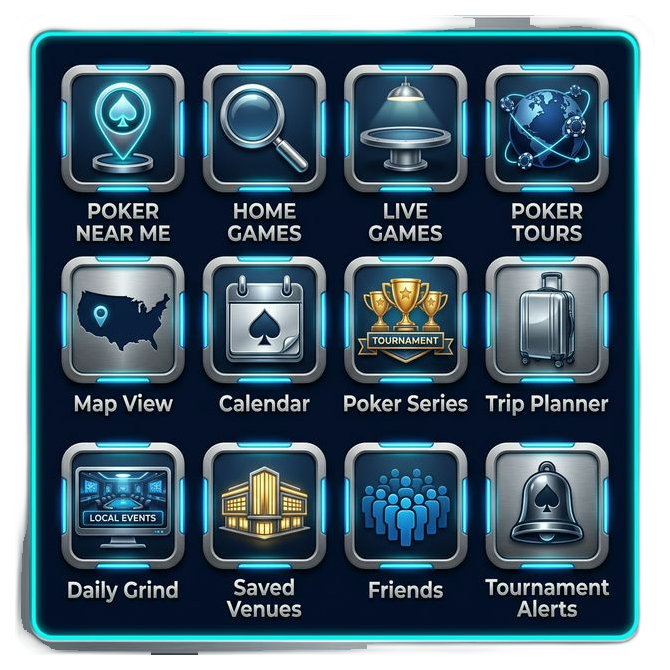
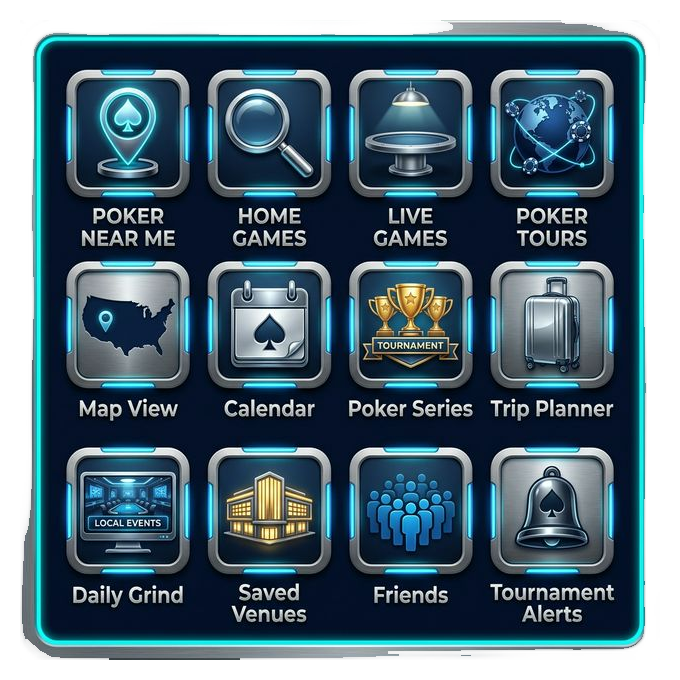
fix: Poker Near Me — cleaner neon frame edges (rembg v2), full-screen panels

diff --git a/pages/hub/poker-near-me-lobby.js b/pages/hub/poker-near-me-lobby.js
@@ -1253,39 +1253,40 @@ export default function PokerNearMeLobby() {
         {/* Layer 3 — Feature Panel (page level to escape overlay z-index stacking context) */}
         {showPanel && panelContent && (
           <>
-            {/* Backdrop */}
-            <div
-              onClick={handlePanelClose}
-              style={{
-                position: 'fixed', inset: 0, zIndex: 50,
-                background: 'rgba(3, 4, 8, 0.6)',
-                backdropFilter: 'blur(6px)', WebkitBackdropFilter: 'blur(6px)',
-              }}
-            />
-            {/* Panel */}
+            {/* Full-screen panel overlay */}
             <div
               className="lobby-panel-page"
               style={{
-                position: 'fixed', bottom: 0, left: 0, right: 0,
-                maxHeight: '82vh', zIndex: 51,
-                background: 'linear-gradient, paddingBottom: 70(160deg, rgba(18, 24, 40, 0.97), rgba(8, 12, 22, 0.98))',
-                borderTop: '1px solid rgba(110, 231, 239, 0.15)',
-                borderRadius: '20px 20px 0 0',
-                boxShadow: '0 -8px 60px rgba(0, 0, 0, 0.5), 0 0 30px rgba(110, 231, 239, 0.04)',
+                position: 'fixed', inset: 0, zIndex: 51,
+                background: 'linear-gradient(160deg, #0c1828, #060a14)',
                 display: 'flex', flexDirection: 'column', overflow: 'hidden',
-                animation: 'lobby-panelSlideUp 0.35s cubic-bezier(0.25, 0.46, 0.45, 0.94) forwards',
+                animation: 'lobby-panelSlideUp 0.3s cubic-bezier(0.25, 0.46, 0.45, 0.94) forwards',
               }}
             >
-              {/* Drag handle */}
-              <div style={{ display: 'flex', justifyContent: 'center', padding: '10px 0 4px' }}>
-                <div style={{ width: 40, height: 4, borderRadius: 2, background: 'rgba(200, 214, 229, 0.2)' }} />
-              </div>
               {/* Header */}
               <div style={{
                 display: 'flex', alignItems: 'center', justifyContent: 'space-between',
-                padding: '8px 20px 12px',
-                borderBottom: '1px solid rgba(110, 231, 239, 0.08)',
+                padding: '16px 20px 14px',
+                borderBottom: '1px solid rgba(110, 231, 239, 0.12)',
+                background: 'rgba(6, 15, 28, 0.95)',
+                flexShrink: 0,
               }}>
+                <button
+                  onClick={handlePanelClose}
+                  aria-label="Back to grid"
+                  style={{
+                    background: 'rgba(110, 231, 239, 0.08)', border: '1px solid rgba(110, 231, 239, 0.15)',
+                    color: '#6ee7ef',
+                    cursor: 'pointer', padding: '6px 14px', borderRadius: 8,
+                    fontSize: 13, fontWeight: 600, fontFamily: 'inherit',
+                    display: 'flex', alignItems: 'center', gap: 6,
+                  }}
+                >
+                  <svg width="16" height="16" viewBox="0 0 24 24" fill="none" stroke="currentColor" strokeWidth="2">
+                    <polyline points="15 18 9 12 15 6" />
+                  </svg>
+                  Back
+                </button>
                 <h2 style={{
                   fontFamily: 'var(--font-premium-display)',
                   fontSize: 20, fontWeight: 700, margin: 0,
@@ -1299,17 +1300,17 @@ export default function PokerNearMeLobby() {
                   style={{
                     background: 'none', border: 'none',
                     color: 'rgba(200, 214, 229, 0.5)',
-                    cursor: 'pointer', padding: 4, borderRadius: 8,
+                    cursor: 'pointer', padding: 6, borderRadius: 8,
                   }}
                 >
-                  <svg width="20" height="20" viewBox="0 0 24 24" fill="none" stroke="currentColor" strokeWidth="2">
+                  <svg width="22" height="22" viewBox="0 0 24 24" fill="none" stroke="currentColor" strokeWidth="2">
                     <line x1="18" y1="6" x2="6" y2="18" />
                     <line x1="6" y1="6" x2="18" y2="18" />
                   </svg>
                 </button>
               </div>
-              {/* Content */}
-              <div style={{ flex: 1, overflowY: 'auto', padding: '16px 20px 24px', WebkitOverflowScrolling: 'touch' }}>
+              {/* Content — full remaining height */}
+              <div style={{ flex: 1, overflowY: 'auto', padding: '16px 20px 90px', WebkitOverflowScrolling: 'touch' }}>
                 {panelContent.component}
               </div>
             </div>

diff --git a/scripts/discover_venue_slugs.py b/scripts/discover_venue_slugs.py
@@ -1,0 +1,167 @@
+#!/usr/bin/env python3
+"""
+POKERATLAS SLUG DISCOVERY SCRAPER
+Finds PokerAtlas URLs for name_only venues by guessing URL slugs.
+Scrapes JSON-LD data (address, phone, GPS, website) with full provenance.
+
+Usage:
+  .venv/bin/python3 scripts/discover_venue_slugs.py
+"""
+import json, hashlib, re, time, uuid, os, sys
+from datetime import datetime, timezone
+from scrapling.fetchers import Fetcher
+import urllib.request as urllib_req
+
+URL = 'https://kuklfnapbkmacvwxktbh.supabase.co'
+KEY = 'eyJhbGciOiJIUzI1NiIsInR5cCI6IkpXVCJ9.eyJpc3MiOiJzdXBhYmFzZSIsInJlZiI6Imt1a2xmbmFwYmttYWN2d3hrdGJoIiwicm9sZSI6InNlcnZpY2Vfcm9sZSIsImlhdCI6MTc2NzczMDg0NCwiZXhwIjoyMDgzMzA2ODQ0fQ.bbDqj-me78PID99npWCZ5qUuINSC1-eCBb1BVhgiSRs'
+BATCH_ID = str(uuid.uuid4())
+EVIDENCE_DIR = os.path.join(os.path.dirname(os.path.dirname(__file__)), 'data', 'scrape-evidence')
+
+def fetch(path):
+    req = urllib_req.Request(f'{URL}/rest/v1/{path}',
+        headers={'apikey': KEY, 'Authorization': f'Bearer {KEY}'})
+    return json.loads(urllib_req.urlopen(req).read().decode())
+
+def update_venue(vid, data):
+    body = json.dumps(data).encode()
+    req = urllib_req.Request(f'{URL}/rest/v1/poker_venues?id=eq.{vid}',
+        data=body, method='PATCH',
+        headers={'apikey': KEY, 'Authorization': f'Bearer {KEY}',
+                 'Content-Type': 'application/json', 'Prefer': 'return=minimal'})
+    urllib_req.urlopen(req)
+
+def slugify(name, city=''):
+    name = name.lower().strip()
+    name = re.sub(r"['`]", '', name)
+    name = re.sub(r'&', 'and', name)
+    name = re.sub(r'[^a-z0-9\s]', '', name)
+    name = re.sub(r'\s+', '-', name.strip())
+
+    city = city.lower().strip()
+    city = re.sub(r'[^a-z0-9\s]', '', city)
+    city = re.sub(r'\s+', '-', city.strip())
+
+    slugs = []
+    if city:
+        slugs.append(f'{name}-{city}')
+    slugs.append(name)
+    for suffix in ['casino', 'hotel', 'resort', 'and-casino', 'casino-resort',
+                   'casino-hotel', 'card-room', 'poker-room', 'poker-club',
+                   'card-club', 'and-spa', 'spa-resort', 'gaming']:
+        short = name.replace(f'-{suffix}', '').replace(suffix, '').strip('-')
+        if short and short != name:
+            if city:
+                slugs.append(f'{short}-{city}')
+            slugs.append(short)
+    return list(dict.fromkeys(slugs))
+
+def try_scrape(name, city, state, vid):
+    slugs = slugify(name, city)
+    for slug in slugs[:3]:
+        pa_url = f'https://www.pokeratlas.com/poker-room/{slug}'
+        try:
+            page = Fetcher.get(pa_url, stealthy_headers=True, timeout=8)
+            if page.status != 200:
+                time.sleep(0.3)
+                continue
+            body = page.body or b''
+            html = body.decode('utf-8', errors='ignore')
+            jsonld = re.findall(r'<script[^>]*type="application/ld\+json"[^>]*>(.*?)</script>', html, re.DOTALL)
+            vd = {}
+            for jm in jsonld:
+                try:
+                    ld = json.loads(jm)
+                    addr = ld.get('address', {})
+                    if isinstance(addr, dict) and addr.get('streetAddress'):
+                        vd['address'] = addr['streetAddress']
+                        vd['city'] = addr.get('addressLocality', '')
+                        vd['state'] = addr.get('addressRegion', '')
+                    if ld.get('telephone'):
+                        vd['phone'] = ld['telephone']
+                    geo = ld.get('geo', {})
+                    if isinstance(geo, dict) and geo.get('latitude'):
+                        vd['lat'] = float(geo['latitude'])
+                        vd['lng'] = float(geo.get('longitude', 0))
+                    if ld.get('url'):
+                        vd['website'] = ld['url']
+                except:
+                    continue
+            if vd.get('address'):
+                if state and vd.get('state') and vd['state'] != state:
+                    time.sleep(0.3)
+                    continue
+                os.makedirs(EVIDENCE_DIR, exist_ok=True)
+                safe = re.sub(r'[^a-z0-9]', '_', name.lower())[:30]
+                ts = datetime.now().strftime('%Y%m%d_%H%M%S')
+                with open(f'{EVIDENCE_DIR}/pa_{safe}_{ts}.json', 'w') as f:
+                    json.dump({'venue': name, 'slug': slug, 'url': pa_url, 'data': vd,
+                               'hash': hashlib.sha256(body).hexdigest(),
+                               'ts': datetime.now(timezone.utc).isoformat(), 'batch': BATCH_ID}, f, indent=2)
+                upd = {
+                    'data_quality': 'scraped_verified',
+                    'scrape_html_hash': hashlib.sha256(body).hexdigest(),
+                    'scrape_timestamp': datetime.now(timezone.utc).isoformat(),
+                    'scrape_confidence': 'high', 'scrape_batch_id': BATCH_ID,
+                    'pokeratlas_url': pa_url, 'address': vd.get('address'), 'phone': vd.get('phone'),
+                }
+                if vd.get('website'):
+                    upd['website'] = vd['website']
+                if vd.get('lat'):
+                    upd['latitude'] = vd['lat']
+                    upd['longitude'] = vd['lng']
+                update_venue(vid, upd)
+                return True, pa_url, vd
+        except Exception as e:
+            pass
+        time.sleep(0.3)
+    return False, None, None
+
+def main():
+    name_only = []
+    for offset in range(0, 500, 200):
+        batch = fetch(f'poker_venues?select=id,name,city,state&data_quality=eq.name_only&limit=200&offset={offset}')
+        name_only.extend(batch)
+        if len(batch) < 200:
+            break
+
+    print(f'{"="*60}')
+    print(f'POKERATLAS SLUG DISCOVERY — Batch {BATCH_ID[:8]}')
+    print(f'{"="*60}')
+    print(f'Name_only venues to process: {len(name_only)}')
+
+    found = missed = 0
+    missed_list = []
+    for i, v in enumerate(name_only):
+        ok, pa_url, data = try_scrape(v['name'], v.get('city',''), v.get('state',''), v['id'])
+        if ok:
+            found += 1
+            print(f'  ✅ {v["name"][:35]:35} | {v.get("city",""):15} {v.get("state","")} | {data.get("address","")[:30]}')
+        else:
+            missed += 1
+            missed_list.append(v)
+        if (i + 1) % 50 == 0:
+            print(f'  --- {i+1}/{len(name_only)} ({found} found, {missed} missed) ---')
+            sys.stdout.flush()
+        time.sleep(0.3)
+
+    print(f'\n{"="*60}')
+    print(f'RESULTS: {found}/{len(name_only)} found')
+    print(f'{"="*60}')
+    with open(f'{EVIDENCE_DIR}/missed_venues.json', 'w') as f:
+        json.dump(missed_list, f, indent=2)
+    print(f'Missed venues saved to {EVIDENCE_DIR}/missed_venues.json')
+
+    def ct(path):
+        req = urllib_req.Request(f'{URL}/rest/v1/{path}',
+            headers={'apikey': KEY, 'Authorization': f'Bearer {KEY}', 'Prefer': 'count=exact'})
+        r = urllib_req.urlopen(req)
+        cr = r.headers.get('Content-Range', '?')
+        return cr.split('/')[-1] if '/' in cr else cr
+
+    print(f'\n=== DB STATE ===')
+    print(f'  Total venues: {ct("poker_venues?select=id&limit=1")}')
+    print(f'  scraped_verified: {ct("poker_venues?select=id&data_quality=eq.scraped_verified&limit=1")}')
+    print(f'  name_only: {ct("poker_venues?select=id&data_quality=eq.name_only&limit=1")}')
+
+if __name__ == '__main__':
+    main()
